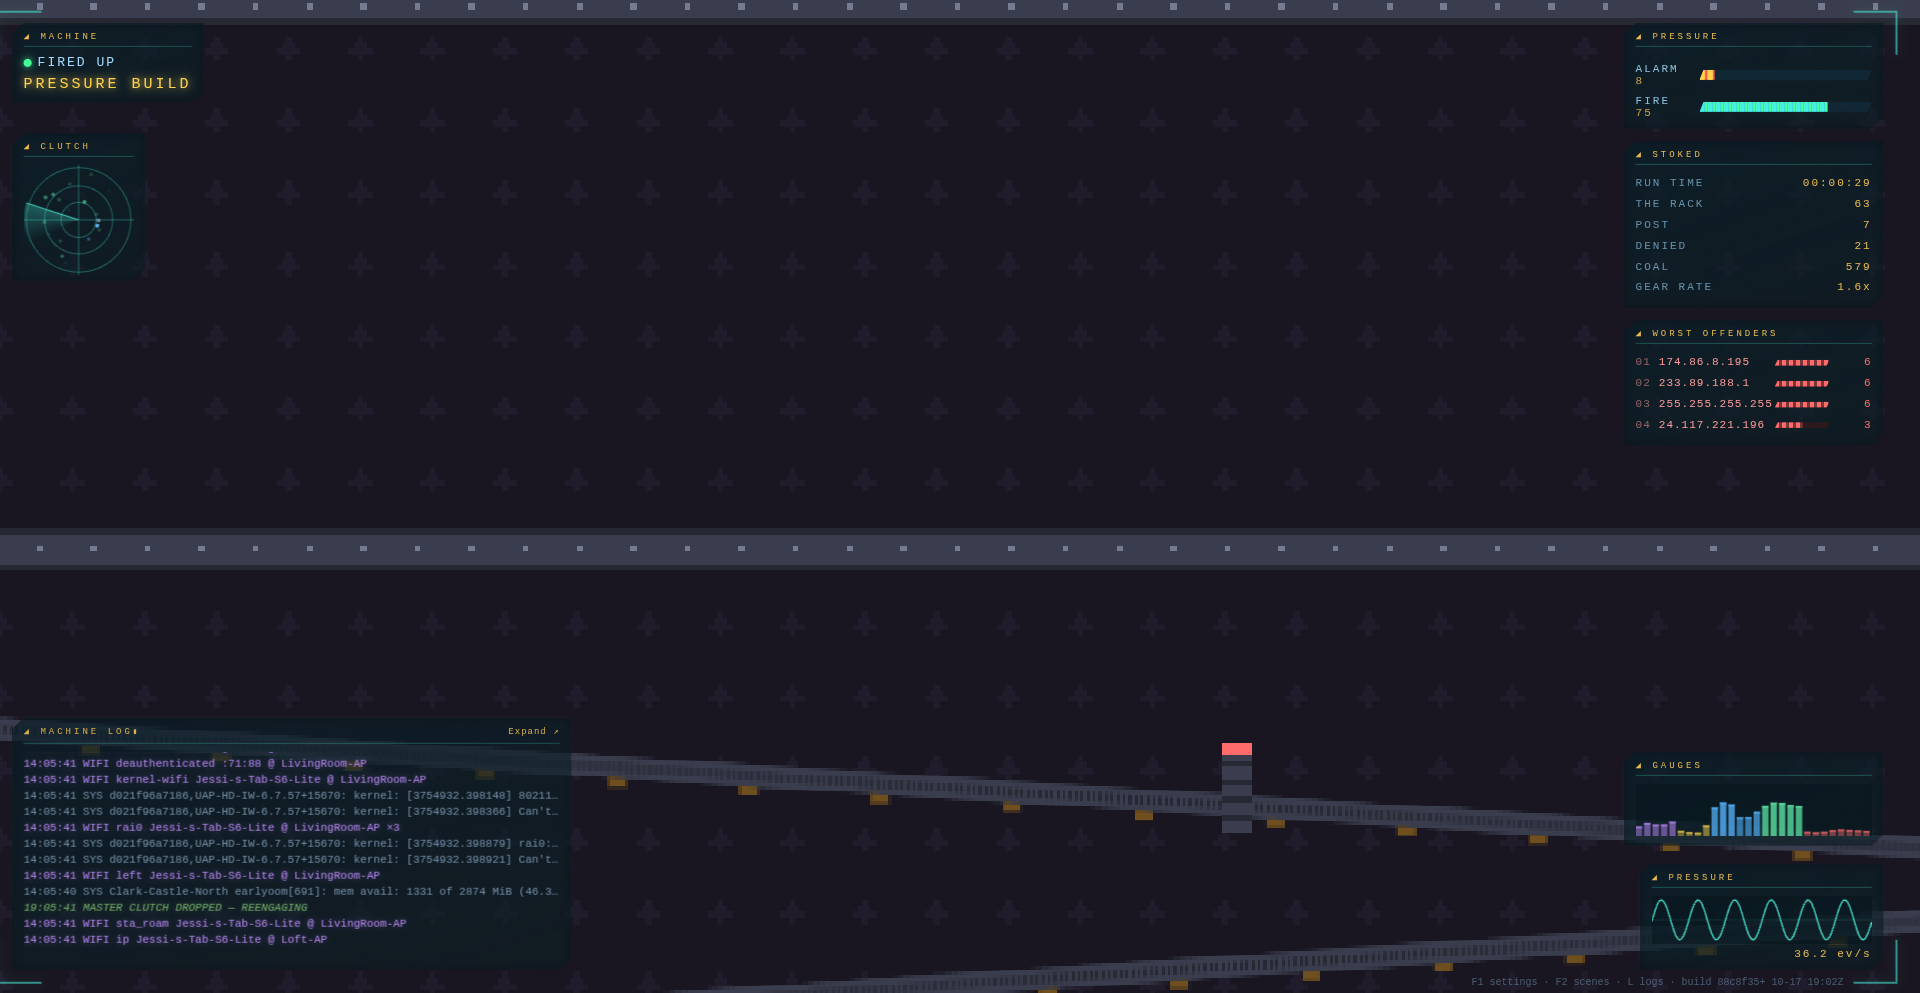
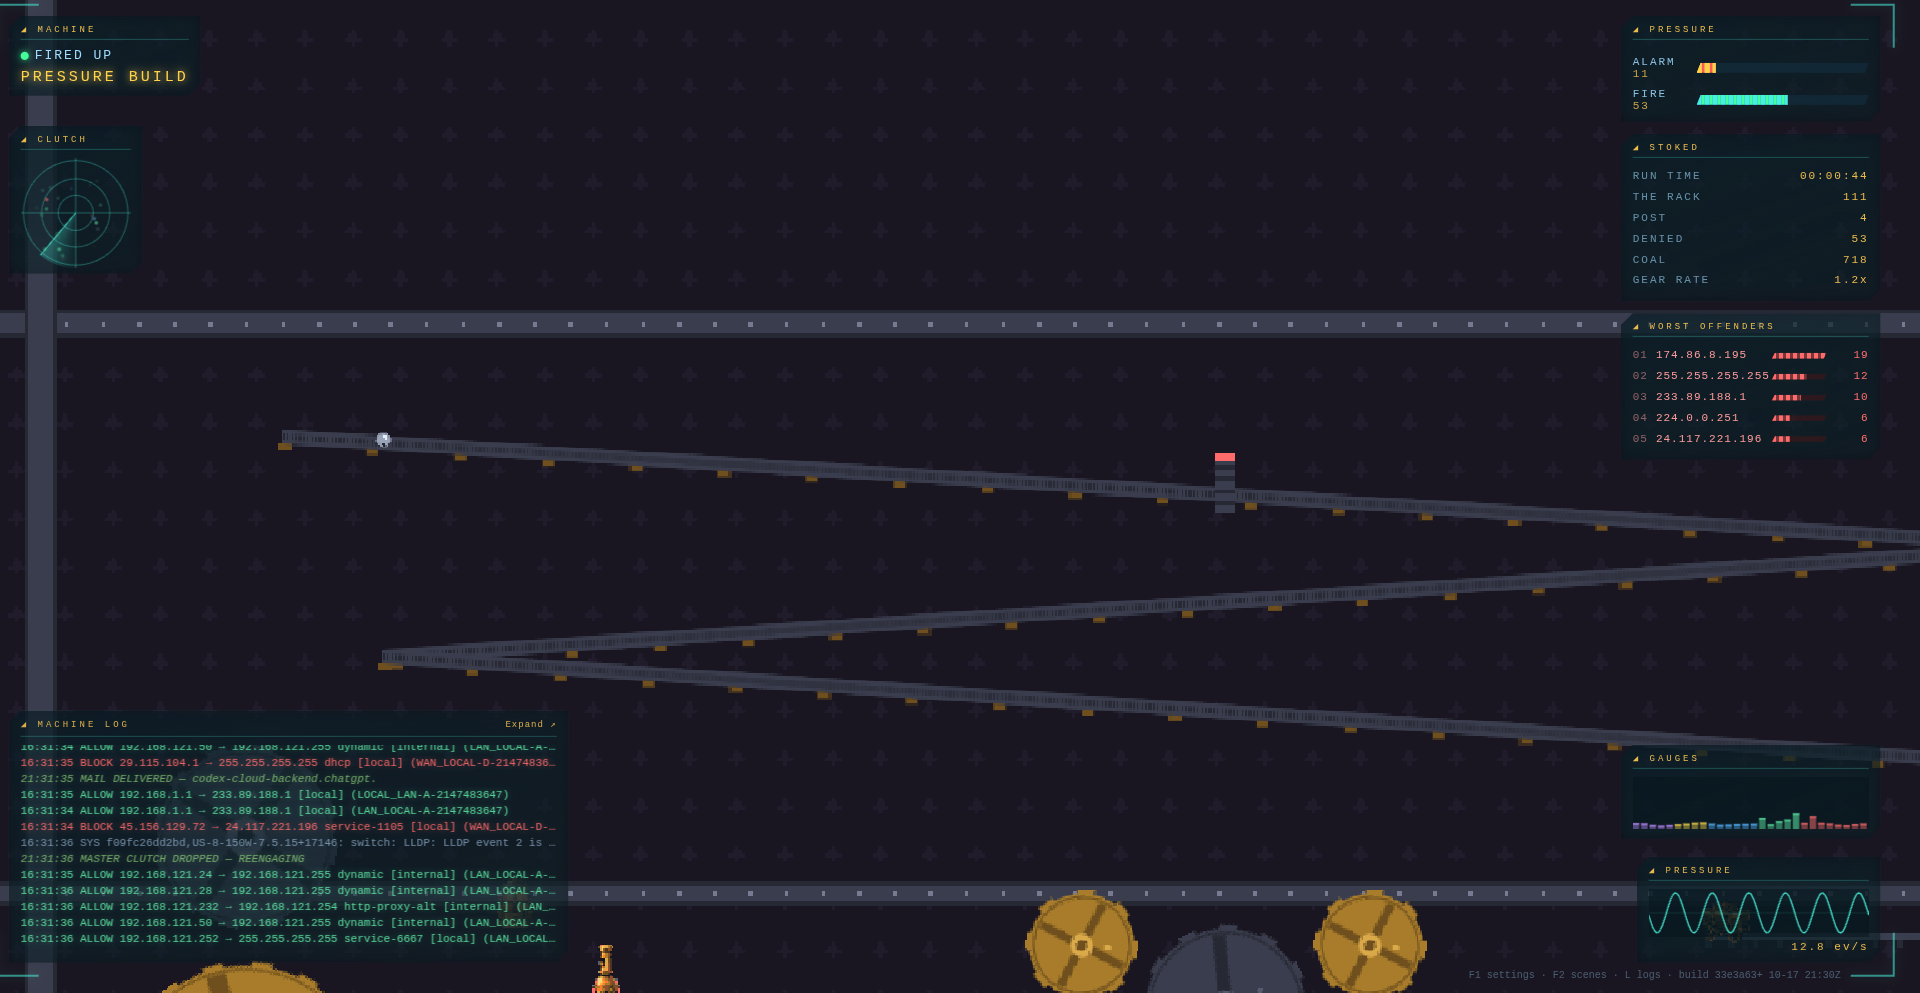
clockwork: pull the camera back (620px view) and glide, don't jerk - deadzone + slow ease

diff --git a/web/src/themes/clockwork/machine.ts b/web/src/themes/clockwork/machine.ts
@@ -547,8 +547,13 @@ export class Machine {
   }
 
   // ── camera ───────────────────────────────────────────────────────────────
+  private lastFocus = -9;
   focus(x: number, y: number): void {
     if (location.hash === '#camhold') return;
+    // don't jerk across the machine for every event: only re-aim for a genuinely
+    // different part of it, and not more than once every few seconds
+    if (this.t - this.lastFocus < 3 && Math.hypot(x - this.cam.tx, y - this.cam.ty) < 300) return;
+    this.lastFocus = this.t;
     this.cam.tx = x; this.cam.ty = y;
     this.idleAt = this.t;
   }
@@ -562,7 +567,7 @@ export class Machine {
     const vw = this.vw, vh = this.vh;
     this.cam.tx = Math.max(vw / 2, Math.min(WORLD_W - vw / 2, this.cam.tx));
     this.cam.ty = Math.max(vh / 2, Math.min(WORLD_H - vh / 2, this.cam.ty));
-    const k = Math.min(1, dt * 1.1);
+    const k = Math.min(1, dt * 0.3);
     this.cam.x += (this.cam.tx - this.cam.x) * k;
     this.cam.y += (this.cam.ty - this.cam.y) * k;
   }

diff --git a/web/src/themes/clockwork/index.ts b/web/src/themes/clockwork/index.ts
@@ -57,11 +57,11 @@ async function create(host: ThemeHost<typeof CLOCKWORK_DEFAULTS>, init: Renderer
   );
   screen.addChild(machine.world);
 
-  // pixel scale: about 260 world pixels tall, whole-number
-  let S = 4, focusX = 640;
+  // pixel scale: about 620 world pixels tall - the machine has to fit on screen
+  let S = 2, focusX = 640;
   function layout(): void {
     const W = app.screen.width, H = app.screen.height;
-    S = Math.max(2, Math.round(H / 300));
+    S = Math.max(2, Math.round(H / 620));
     screen.scale.set(S);
     machine.vw = Math.ceil(W / S);
     machine.vh = Math.ceil(H / S);
